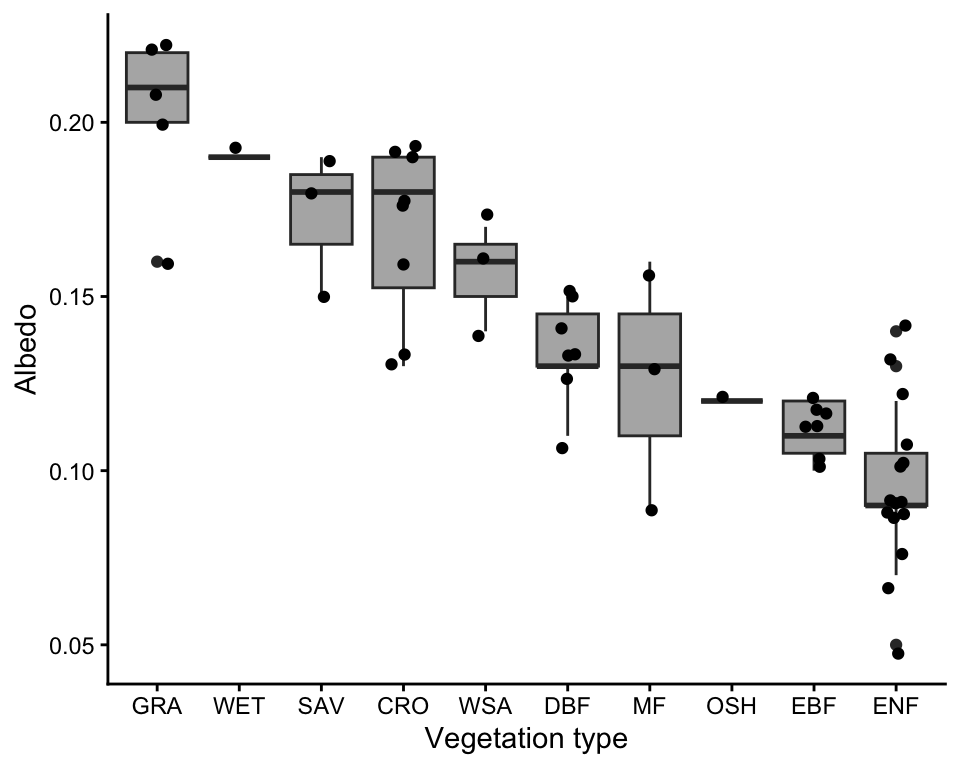
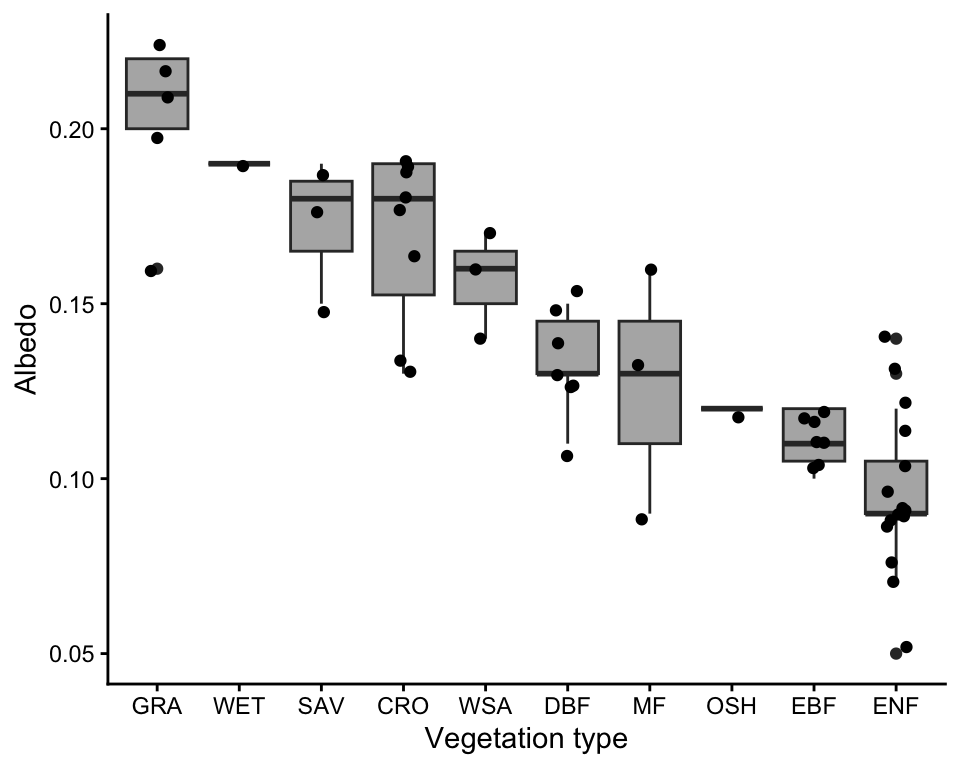
Built site for gh-pages

diff --git a/landclimate.html b/landclimate.html
@@ -568,7 +568,7 @@ window.Quarto = {
 
 
 <p>In previous chapters, we have investigated the interactions between the atmosphere and the land surface through the exchange of CO<sub>2</sub>. In this chapter, we focus on interactions through physical processes, including the radiative energy balance and heat fluxes at the land surface. Since these Earth system interactions are also mediated to a large degree through biology, they are referred to as <em>biogeophysical</em> processes. This is in contrast to the exchange of CO<sub>2</sub> and nutrient fluxes, referred to as <em>biogeochemical</em> processes.</p>
-<p>The partitioning of heat fluxes into sensible (hot air) and latent (moist air) heat fluxes is strongly affected by the availability of water for evaporation and transpiration. All aspects that relate to the water cycle, how it is affected by vegetation, and how it affects the surface energy balance and limits vegetation activity, are introduced in <a href="ecohydrology.html" class="quarto-xref"><span>Chapter 8</span></a>. However, land-climate interactions are also important in the absence of effects by water limitation. The surface properties, determined by the land cover type, its roughness, and (for vegetation) its conduciveness to evaporating water, have a strong influence on the atmosphere and climatic conditions, especially near the surface - where life happens. Climate and numerical weather prediction models require the fluxes of energy, momentum, and water vapor for simulating atmospheric processes. This chapter introduces how properties of the vegetated land surface affect these fluxes.</p>
+<p>The partitioning of heat fluxes into sensible (hot air) and latent (moist air) heat fluxes is strongly affected by the availability of water for evaporation and transpiration. All aspects that relate to the water cycle, how it is affected by vegetation, and how it affects the surface energy balance and limits vegetation activity, are introduced in <a href="ecohydrology.html" class="quarto-xref"><span>Chapter 8</span></a>. However, land-climate interactions are also important in the absence of effects by water limitation. The surface properties, determined by the land cover type, its roughness, and (for vegetation) its conduciveness to evaporating water, have a strong influence on the atmosphere and climatic conditions, especially near the surface–where life happens. Climate and numerical weather prediction models require the fluxes of energy, momentum, and water vapor for simulating atmospheric processes. This chapter introduces how properties of the vegetated land surface affect these fluxes.</p>
 <section id="components-of-surface-radiation" class="level2" data-number="7.1">
 <h2 data-number="7.1" class="anchored" data-anchor-id="components-of-surface-radiation"><span class="header-section-number">7.1</span> Components of surface radiation</h2>
 <p>Analogous to solar radiation being the “engine” of biogeochemical processes through its control on photosynthesis, net radiation is the engine of energy and water vapor fluxes between the atmosphere and the land surface. Net radiation (<span class="math inline">\(R_n\)</span>) is the net of incoming (or incident) shortwave radiation (<span class="math inline">\(S\downarrow\)</span>) minus outgoing shortwave (solar) radiation (<span class="math inline">\(S\uparrow\)</span>) and longwave radiation (<span class="math inline">\(L\downarrow\)</span> and <span class="math inline">\(L\uparrow\)</span>) at the land surface (<a href="#fig-netrad" class="quarto-xref">Figure&nbsp;<span>7.1</span></a> a). <span id="eq-netrad"><span class="math display">\[
@@ -610,7 +610,7 @@ Figure&nbsp;7.2: Schematic representation of the global mean energy budget of th
 </section>
 <section id="sec-albedo" class="level3" data-number="7.1.2">
 <h3 data-number="7.1.2" class="anchored" data-anchor-id="sec-albedo"><span class="header-section-number">7.1.2</span> Outgoing shortwave radiation and albedo</h3>
-<p>Outgoing shortwave radiation at the land surface (<span class="math inline">\(S\uparrow\)</span>) is determined by the albedo (<span class="math inline">\(\alpha\)</span>) - the fraction of the incident radiation that gets reflected. <span id="eq-albedo"><span class="math display">\[
+<p>Outgoing shortwave radiation at the land surface (<span class="math inline">\(S\uparrow\)</span>) is determined by the albedo (<span class="math inline">\(\alpha\)</span>)–the fraction of the incident radiation that gets reflected. <span id="eq-albedo"><span class="math display">\[
 S\uparrow = \alpha S\downarrow
 \tag{7.2}\]</span></span> The albedo varies across different vegetation and other types of Earth surface covers. Values range from 0.8-0.95 for fresh snow, to 0.2-0.45 for a desert surface, 0.05–0.40 for bare soil, 0.05-0.26 for vegetation, and 0.03–0.10 for water <span class="citation" data-cites="oke87">(<a href="references.html#ref-oke87" role="doc-biblioref">Oke 1987</a>)</span>. Variations across different vegetation types are substantial as shown also in <a href="#fig-albedo-vegtypes" class="quarto-xref">Figure&nbsp;<span>7.3</span></a>. This indicates that the amount of outgoing shortwave radiation, and with it, net radiation, is strongly affected by vegetation types.</p>
 <div class="cell">
@@ -642,14 +642,14 @@ S\uparrow = \alpha S\downarrow
 <img src="landclimate_files/figure-html/fig-albedo-vegtypes-1.png" class="img-fluid figure-img" style="width:60.0%">
 </div>
 <figcaption class="quarto-float-caption-bottom quarto-float-caption quarto-float-fig" id="fig-albedo-vegtypes-caption-0ceaefa1-69ba-4598-a22c-09a6ac19f8ca">
-Figure&nbsp;7.3: Albedo values for different vegetation types. Each point represents a site where surface radiation fluxes were measured. Vegetation types are described in <a href="biogeography.html#tbl-vegtype" class="quarto-xref">Table&nbsp;<span>2.1</span></a>. Data from <span class="citation" data-cites="cescatti12rse">Cescatti et al. (<a href="references.html#ref-cescatti12rse" role="doc-biblioref">2012</a>)</span>.
+Figure&nbsp;7.3: Albedo values for different vegetation types. Each point represents an annual averate for a site where surface radiation fluxes were measured. Vegetation types are described in <a href="biogeography.html#tbl-vegtype" class="quarto-xref">Table&nbsp;<span>2.1</span></a>. Data from <span class="citation" data-cites="cescatti12rse">Cescatti et al. (<a href="references.html#ref-cescatti12rse" role="doc-biblioref">2012</a>)</span>.
 </figcaption>
 </figure>
 </div>
 </div>
 </div>
 <!-- Moved the first sentence to the next paragraph as it was a bit out of place here. -->
-<p>Over the seasons, land surface albedo is affected by variations in LAI and by the presence of snow. During winter and in the presence of snow, the albedo of a grassland or a cropland can reach very high values - determined by the albedo of snow. In contrast, the albedo of a forest, even in the presence of snow, remains much lower (0.2-0.4, <span class="citation" data-cites="zhao14ecolmono">Zhao and Jackson (<a href="references.html#ref-zhao14ecolmono" role="doc-biblioref">2014</a>)</span>). This is because trees are not fully “submerged” in the snow pack, as opposed to grasses, and the exposed canopy absorbs a substantial fraction of the incident radiation. This effect of forest vs.&nbsp;non-forest covers on the surface energy balance during winter is referred to as the <em>snow masking effect</em>. Climate model simulations suggest that the low surface albedo during winter warms climate compared to a snow-covered grassland. Thus, deforestation/afforestation of boreal forest has the greatest biogeophysical effect of all biomes on temperatures <span class="citation" data-cites="bonan08sci">(<a href="references.html#ref-bonan08sci" role="doc-biblioref">G. B. Bonan 2008</a>)</span>.</p>
+<p>Over the seasons, land surface albedo is affected by variations in LAI and by the presence of snow. During winter and in the presence of snow, the albedo of a grassland or a cropland can reach very high values–determined by the albedo of snow. In contrast, the albedo of a forest, even in the presence of snow, remains much lower (0.2-0.4, <span class="citation" data-cites="zhao14ecolmono">Zhao and Jackson (<a href="references.html#ref-zhao14ecolmono" role="doc-biblioref">2014</a>)</span>). This is because trees are not fully “submerged” in the snow pack, as opposed to grasses, and the exposed canopy absorbs a substantial fraction of the incident radiation. This effect of forest vs.&nbsp;non-forest covers on the surface energy balance during winter is referred to as the <em>snow masking effect</em>. Climate model simulations suggest that the low surface albedo during winter warms climate compared to a snow-covered grassland. Thus, deforestation/afforestation of boreal forest has the greatest biogeophysical effect of all biomes on temperatures <span class="citation" data-cites="bonan08sci">(<a href="references.html#ref-bonan08sci" role="doc-biblioref">G. B. Bonan 2008</a>)</span>.</p>
 <div class="cell">
 <div class="cell-output-display">
 <div id="fig-snow-masking" class="quarto-float quarto-figure quarto-figure-center anchored">
@@ -664,7 +664,7 @@ Figure&nbsp;7.4: Snow-free vs.&nbsp;snow-covered surface albedo for different ve
 </div>
 </div>
 </div>
-<p>Note that albedo also depends on the wavelength of the radiation, on the solar zenith angle (lower at noon), and on whether the solar radiation is diffuse or direct. Thus, albedo varies over time following a U-shaped diurnal variation - high at sunrise and sunset, and lower in between. <span class="math inline">\(\alpha\)</span> in <a href="#eq-albedo" class="quarto-xref">Equation&nbsp;<span>7.2</span></a> represents the albedo for shortwave radiation, and values shown in <a href="#fig-albedo-vegtypes" class="quarto-xref">Figure&nbsp;<span>7.3</span></a> are averages across the seasons.</p>
+<p>Note that albedo also depends on the wavelength of the radiation, on the solar zenith angle (lower at noon), and on whether the solar radiation is diffuse or direct. Thus, albedo varies over time following a U-shaped diurnal variation–high at sunrise and sunset, and lower in between. <span class="math inline">\(\alpha\)</span> in <a href="#eq-albedo" class="quarto-xref">Equation&nbsp;<span>7.2</span></a> represents the albedo for shortwave radiation, and values shown in <a href="#fig-albedo-vegtypes" class="quarto-xref">Figure&nbsp;<span>7.3</span></a> are averages across the seasons.</p>
 </section>
 <section id="longwave-radiation" class="level3" data-number="7.1.3">
 <h3 data-number="7.1.3" class="anchored" data-anchor-id="longwave-radiation"><span class="header-section-number">7.1.3</span> Longwave radiation</h3>
@@ -1061,7 +1061,7 @@ Figure&nbsp;7.9: Dependency of the latent heat flux on (a) the aerodynamic condu
 </section>
 <section id="energy-fluxes-across-biomes" class="level2" data-number="7.3">
 <h2 data-number="7.3" class="anchored" data-anchor-id="energy-fluxes-across-biomes"><span class="header-section-number">7.3</span> Energy fluxes across biomes</h2>
-<p>As for C fluxes in <a href="globalcarbonpatterns.html" class="quarto-xref"><span>Chapter 6</span></a>, we turn to investigating diurnal and seasonal patterns in fluxes - this time the energy fluxes. The patterns observed at the same sites as used before illustrate general differences across biomes and how different characteristics of the vegetation cover affect the surface energy balance and flux partitioning. In addition to the temperate broadleaved forest site (Hainich Forest, DE-Hai), we consider a coniferous forest (DE-Tha) and a grassland site (DE-Gri) that are located close by (and thus experience largely identical meteorological conditions, ignoring feedbacks from vegetation-atmosphere fluxes that affect near-surface climate).</p>
+<p>As for C fluxes in <a href="globalcarbonpatterns.html" class="quarto-xref"><span>Chapter 6</span></a>, we turn to investigating diurnal and seasonal patterns in fluxes–this time the energy fluxes. The patterns observed at the same sites as used before illustrate general differences across biomes and how different characteristics of the vegetation cover affect the surface energy balance and flux partitioning. In addition to the temperate broadleaved forest site (Hainich Forest, DE-Hai), we consider a coniferous forest (DE-Tha) and a grassland site (DE-Gri) that are located closeby (and thus experience largely identical meteorological conditions, ignoring feedbacks from vegetation-atmosphere fluxes that affect near-surface climate).</p>
 <div class="cell">
 <details class="code-fold">
 <summary>Code</summary>
